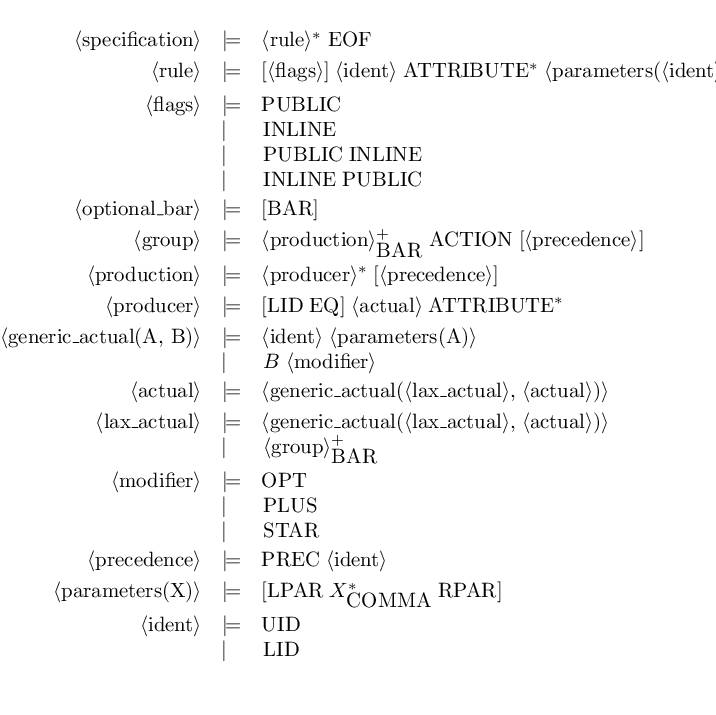
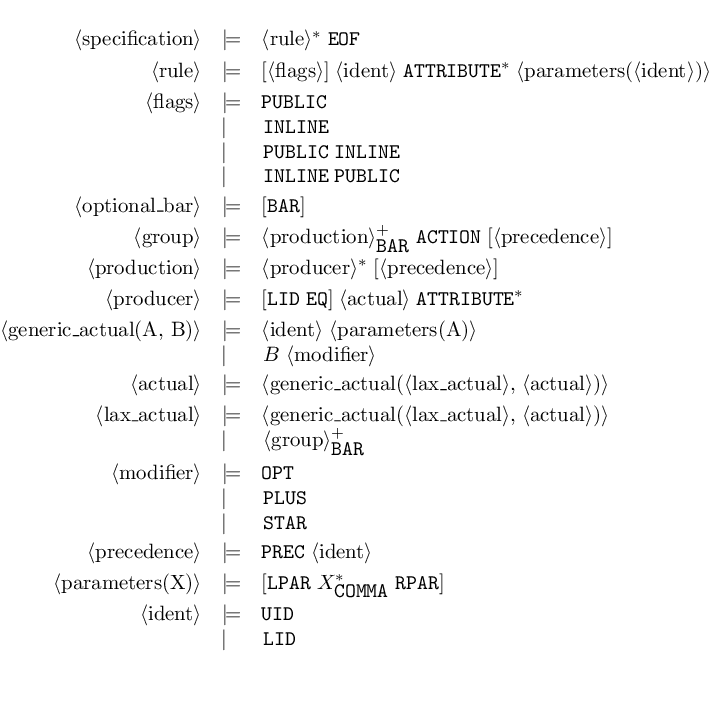
update dune config and fix some bugs

diff --git a/CHANGES.md b/CHANGES.md
@@ -1,8 +1,12 @@
-# Changes
-
-## Unreleased
+## unreleased
 - Drop `ocamlbuild` and `make` in favor of `dune`.
 - Drop API-doc style documentation (irrelevant)
+- Fix break hints after epsilons 
+- use `\lit` command for literals in `syntax` mode
+- change the name of the grammar environment to `obeliskgrammar` in LaTeX modes
+
+## 0.4.0 - 2019-03-01
+This version fixes issue [#8](https://github.com/Lelio-Brun/Obelisk/issues/7), corrects some parentheses related additional bugs and uses the new OPAM 2.0 format.
 
 ## 0.3.2 - 2018-04-25
 This patch is a minor fix to 0.3.1: tests in LaTeX mode are now conditionally guarded on the presence of `pdflatex`` in the PATH.

diff --git a/README.md b/README.md
@@ -214,7 +214,7 @@ Here are the different formats output obtained by **Obelisk** from its own [pars
 ![Backnaur](misc/backnaur.png)
 
 #### HTML
-![HTML](misc/html.png)
+![HTML](misc/html.png) 
 
 [Menhir]: http://gallium.inria.fr/~fpottier/menhir/
 [Dune]: https://github.com/ocaml/dune/
